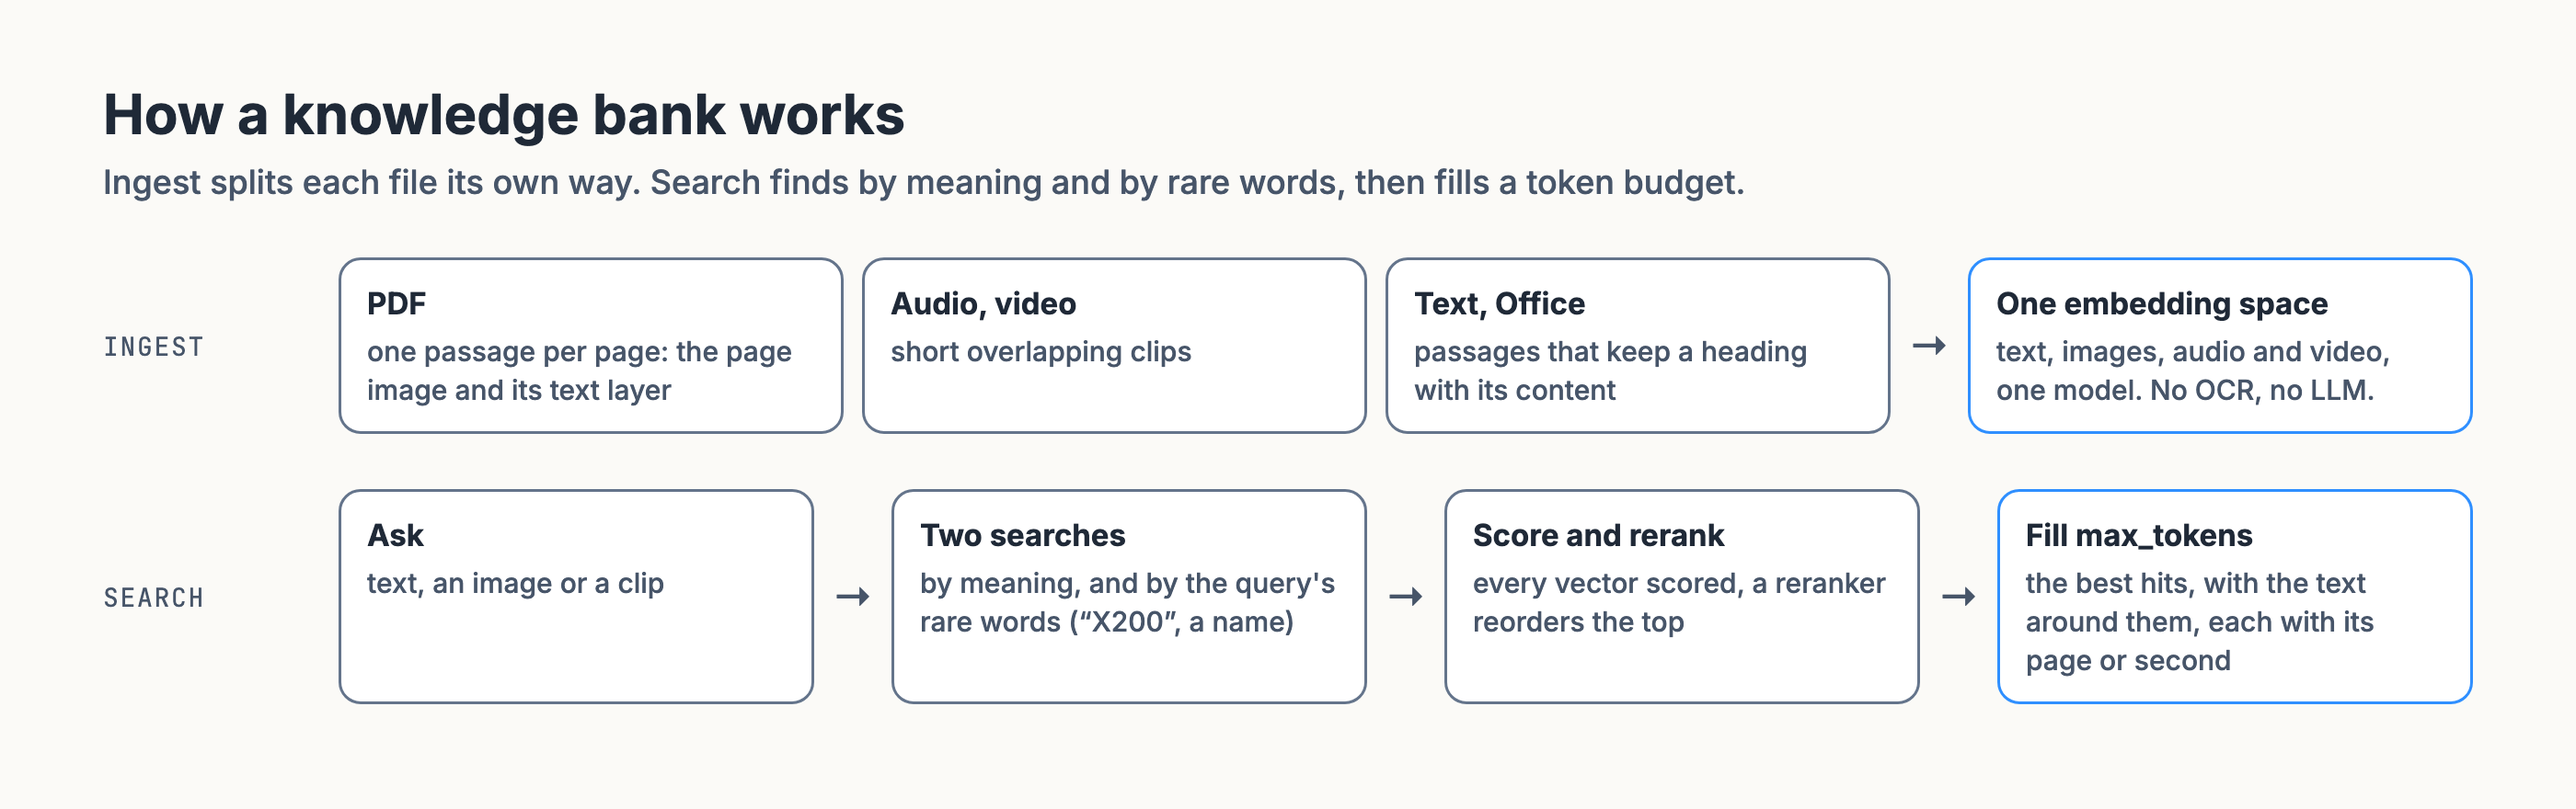
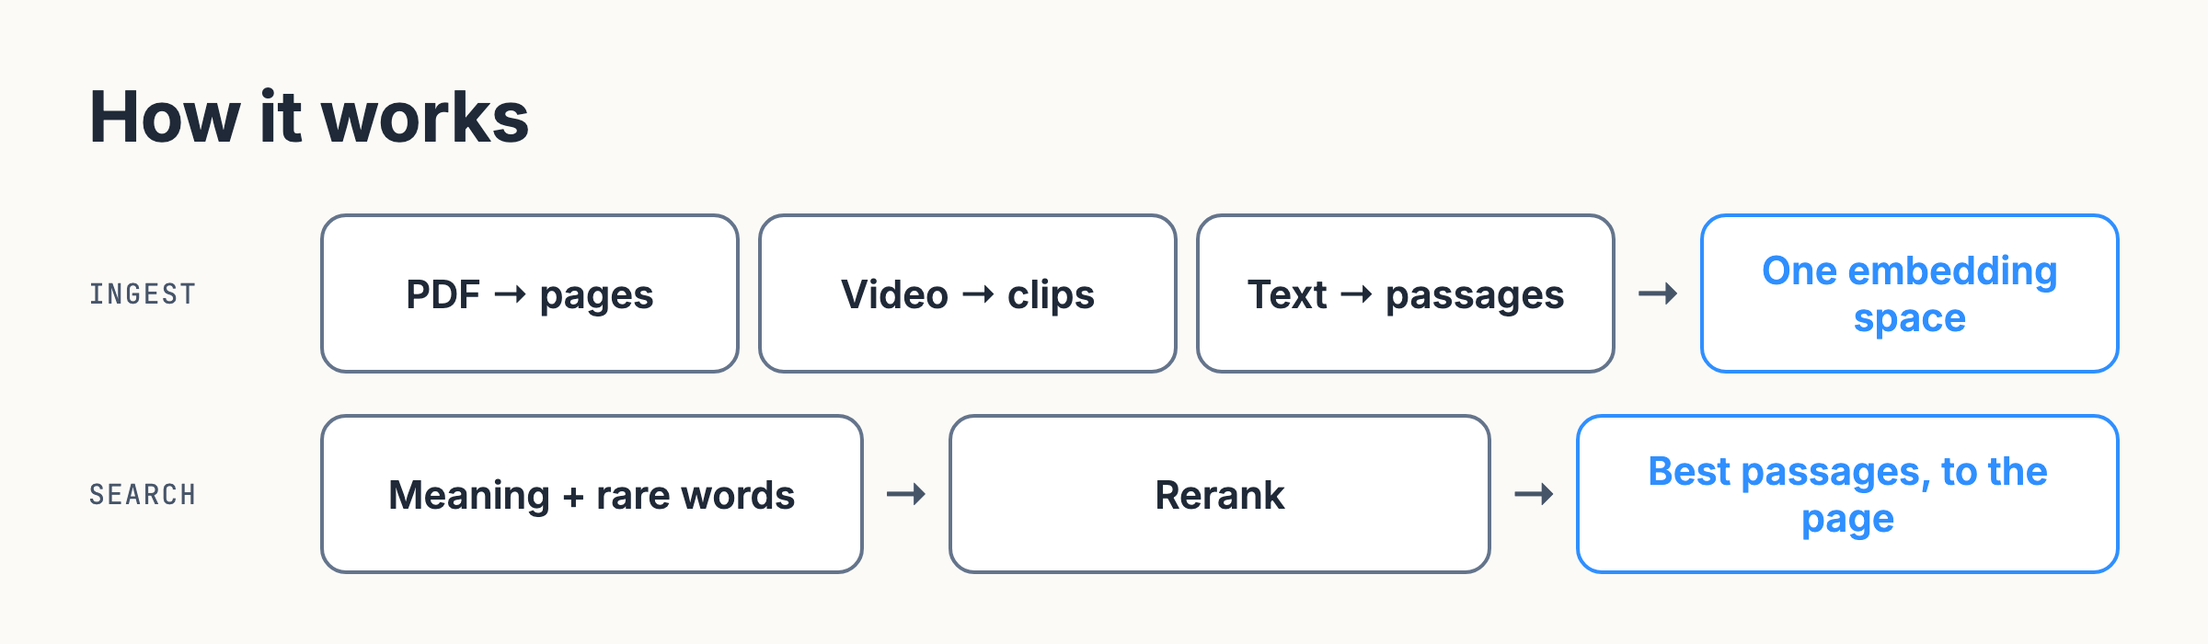
docs(blog): drop the trade-offs section; bigger diagrams with fewer words, shown wide

diff --git a/hindsight-docs/blog/2026-11-24-knowledge-banks.md b/hindsight-docs/blog/2026-11-24-knowledge-banks.md
@@ -26,7 +26,11 @@ import TabItem from '@theme/TabItem';
 
 ## Why memory
 
+<div className="post-wide">
+
 <ThemedImage alt={"A memory bank turns a chat into facts and observations that update"} sources={{light: "/img/blog/knowledge-banks/why-memory-light.png", dark: "/img/blog/knowledge-banks/why-memory-dark.png"}} />
+
+</div>
 
 A memory bank is built to change its mind. Retain sends what your agent hears to an LLM, which pulls out facts, people and dates. Consolidation folds them into observations, and updates them when something new comes in. Ask about a customer and you get what's true about them now, not a pile of old chat logs.
 
@@ -34,7 +38,11 @@ That's exactly right for a person's history. It's wrong for a manual. A manual s
 
 ## Why knowledge
 
+<div className="post-wide">
+
 <ThemedImage alt={"A knowledge bank splits files into passages and returns the page or the second"} sources={{light: "/img/blog/knowledge-banks/why-knowledge-light.png", dark: "/img/blog/knowledge-banks/why-knowledge-dark.png"}} />
+
+</div>
 
 A knowledge bank does the opposite: it never changes what you give it. A PDF stays a PDF, one passage per page, as image and text. A video is split into short clips. A search returns the paragraph with the text around it, and points to its page or its second in the original file. Nothing is summarised or rewritten, and no LLM reads it at ingest.
 
@@ -42,7 +50,11 @@ That's exactly right for a manual. It's wrong for a person. A knowledge bank doe
 
 ## Why together
 
+<div className="post-wide">
+
 <ThemedImage alt={"One reflect call combines Lukas's version from memory with the support policy from the manual"} sources={{light: "/img/blog/knowledge-banks/why-together-light.png", dark: "/img/blog/knowledge-banks/why-together-dark.png"}} />
+
+</div>
 
 Most real questions need both. "Does my server still get updates?" needs the customer's version, which is in memory, and the support policy, which is in the manual. "How long do you keep my activity log?" has one answer in the manual, and a different one for Amara, whose account has an approved exception.
 
@@ -50,7 +62,11 @@ So link them. Add a knowledge bank to a memory bank's config, and reflect search
 
 ### Isn't this just RAG next to memory?
 
+<div className="post-wide">
+
 <ThemedImage alt={"A vector store next to memory, against a knowledge bank linked to a memory bank"} sources={{light: "/img/blog/knowledge-banks/rag-vs-link-light.png", dark: "/img/blog/knowledge-banks/rag-vs-link-dark.png"}} />
+
+</div>
 
 You could put a vector store beside your memory and search both. Three things make a link different:
 
@@ -68,7 +84,11 @@ We ran it three ways, with the same model (Gemma 4 26B) answering through reflec
 - **All in a knowledge bank:** everything is kept as documents.
 - **Together:** the chats go into the memory bank, and the manuals and exception notes go into a linked knowledge bank.
 
+<div className="post-wide">
+
 <ThemedImage alt={"SupportBench scores by kind of question for the three setups"} sources={{light: "/img/blog/knowledge-banks/supportbench-categories-light.png", dark: "/img/blog/knowledge-banks/supportbench-categories-dark.png"}} />
+
+</div>
 
 Each setup fails where you'd expect. All in memory loses the manual's exact wording (81% on questions the manual alone answers). All in a knowledge bank keeps the manual but can't put a customer's history together (62% when an answer needs both, 61% on exceptions). Together gets both. The one place it doesn't help is a chat that contradicts the manual: 73%, the same as memory alone (19 of 26).
 
@@ -113,7 +133,11 @@ Two customers ask the exact same question, and only Amara has an exception. Both
 
 ## How it works
 
+<div className="post-wide">
+
 <ThemedImage alt={"Ingest splits each kind of file; search runs by meaning and rare words, reranks and fills the token budget"} sources={{light: "/img/blog/knowledge-banks/how-it-works-light.png", dark: "/img/blog/knowledge-banks/how-it-works-dark.png"}} />
+
+</div>
 
 **Ingest: every file split its own way, then embedded as it is.** A PDF becomes one passage per page: the page as an image, and its text layer next to it (a scanned page has no text layer and is found by its picture). Audio and video become short overlapping clips. Text and Office files become passages that keep a heading with the content under it. Every passage goes through the same embedding model, so a question in text can land on a page image or the 2:40 mark of a video. Nothing is OCR'd, summarised or rewritten.
 
@@ -163,7 +187,11 @@ Memexa v2's recall counts the items it passes to its answer model, which may not
 
 ## A fraction of the cost
 
+<div className="post-wide">
+
 <ThemedImage alt={"LLM cost to fill, hosted search price, and Hindsight Inference prices"} sources={{light: "/img/blog/knowledge-banks/cost-light.png", dark: "/img/blog/knowledge-banks/cost-dark.png"}} />
+
+</div>
 
 **Filling it: no LLM.** A knowledge bank costs only the embedding. On the support benchmark, putting the manuals into a memory bank cost **$0.95** in LLM calls, because retain reads every page. With the manuals in a knowledge bank and only the chats in memory, it cost **$0.34**: about 3× cheaper, and it scored higher. The linked setup sends the agent more context, so a question costs more: $0.00059 against $0.00031 with memory alone. On LLM spend, memory alone only catches up after about 2,200 questions.
 
@@ -177,14 +205,6 @@ Both models a knowledge bank needs are now on [Hindsight Inference](https://infe
 - **`hs-decide-1-flash-mm`:** our decision reranker, for text and images. Reranking 1,000 PDF pages costs about $0.11.
 
 Point a self-hosted server at them and you get a knowledge bank without running a model yourself. See [Configuration](/next/developer/configuration#knowledge-banks) for the settings.
-
-### The trade-offs
-
-- **Not first everywhere, and the leads are small.** Mixedbread with its reranker is ahead on ViDoRe V3, by 1.5 points on the raw PDFs and 3.7 on page text. Our leads are 1.8 points over Conare on contracts, 0.8 over Memexa v2 on ATM-Bench, and 0.6 over Cohere with its reranker on the raw PDFs. Each score is one run, and the reranker moves results between runs, so read a lead under a couple of points as a tie at the top.
-- **Contradictions are still the hardest case.** When an old chat confidently contradicts the manual, the linked setup gets 73% right, no better than memory alone. Documents win when the agent finds both; it doesn't always find both.
-- **Our scores use a reranker.** Every search score above is reranked by `hs-decide-1-flash-mm`. You can [plug in your own](/next/developer/knowledge-banks#searching) (any service that speaks Cohere's rerank API, pictures included). We haven't published scores without one.
-- **Pick the embedder before you fill the bank.** Every passage is stored as a vector of the model's size. Switching to a model of another size means ingesting again.
-- **Video and audio take time to ingest.** Decoding clips is the slow part: a one-hour video takes about a minute on a GPU. You can turn either off per bank.
 
 ## Try it
 
